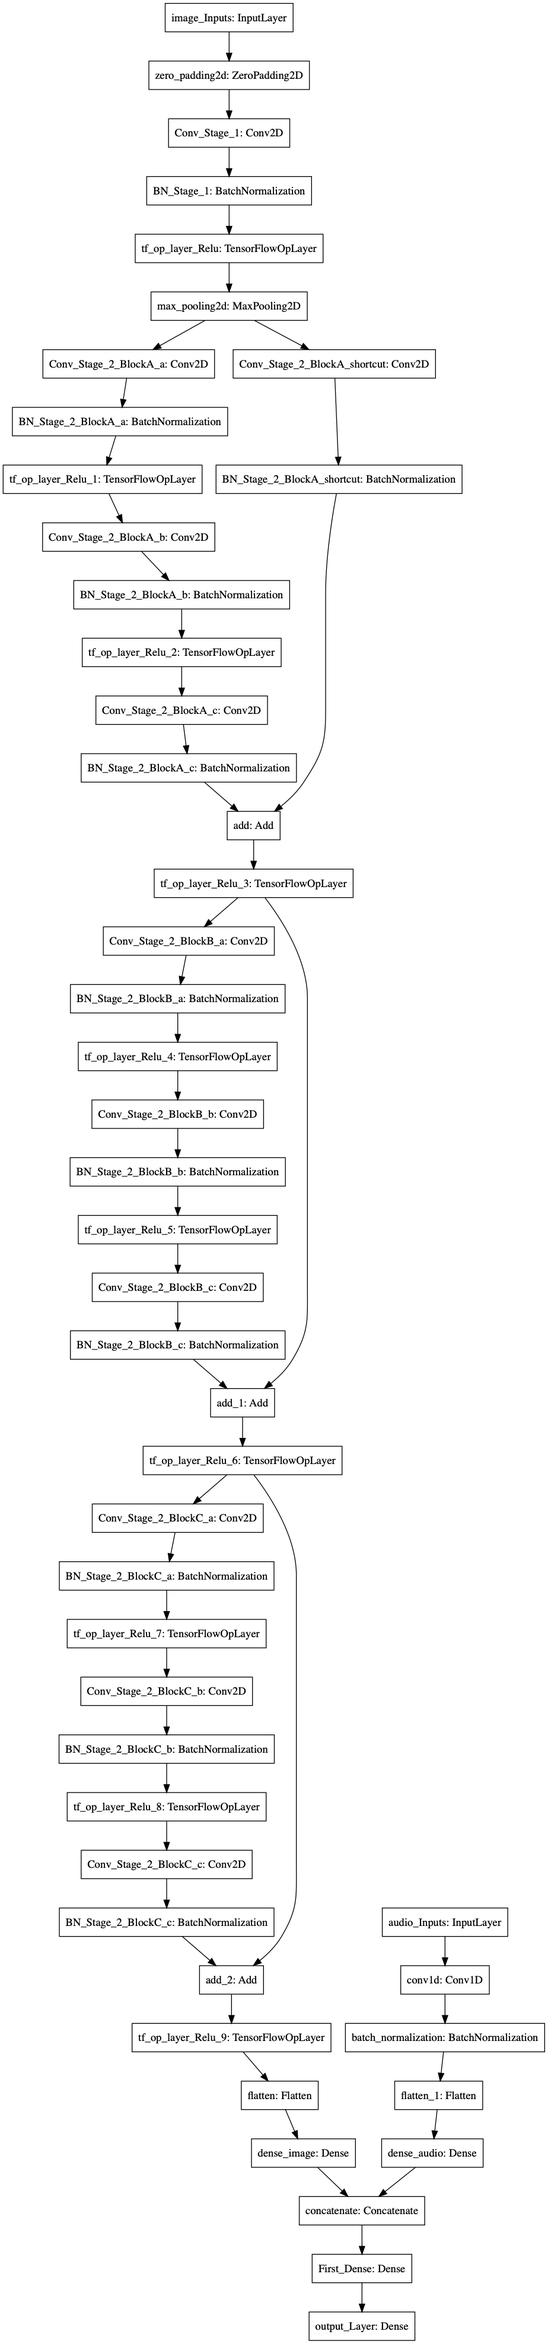
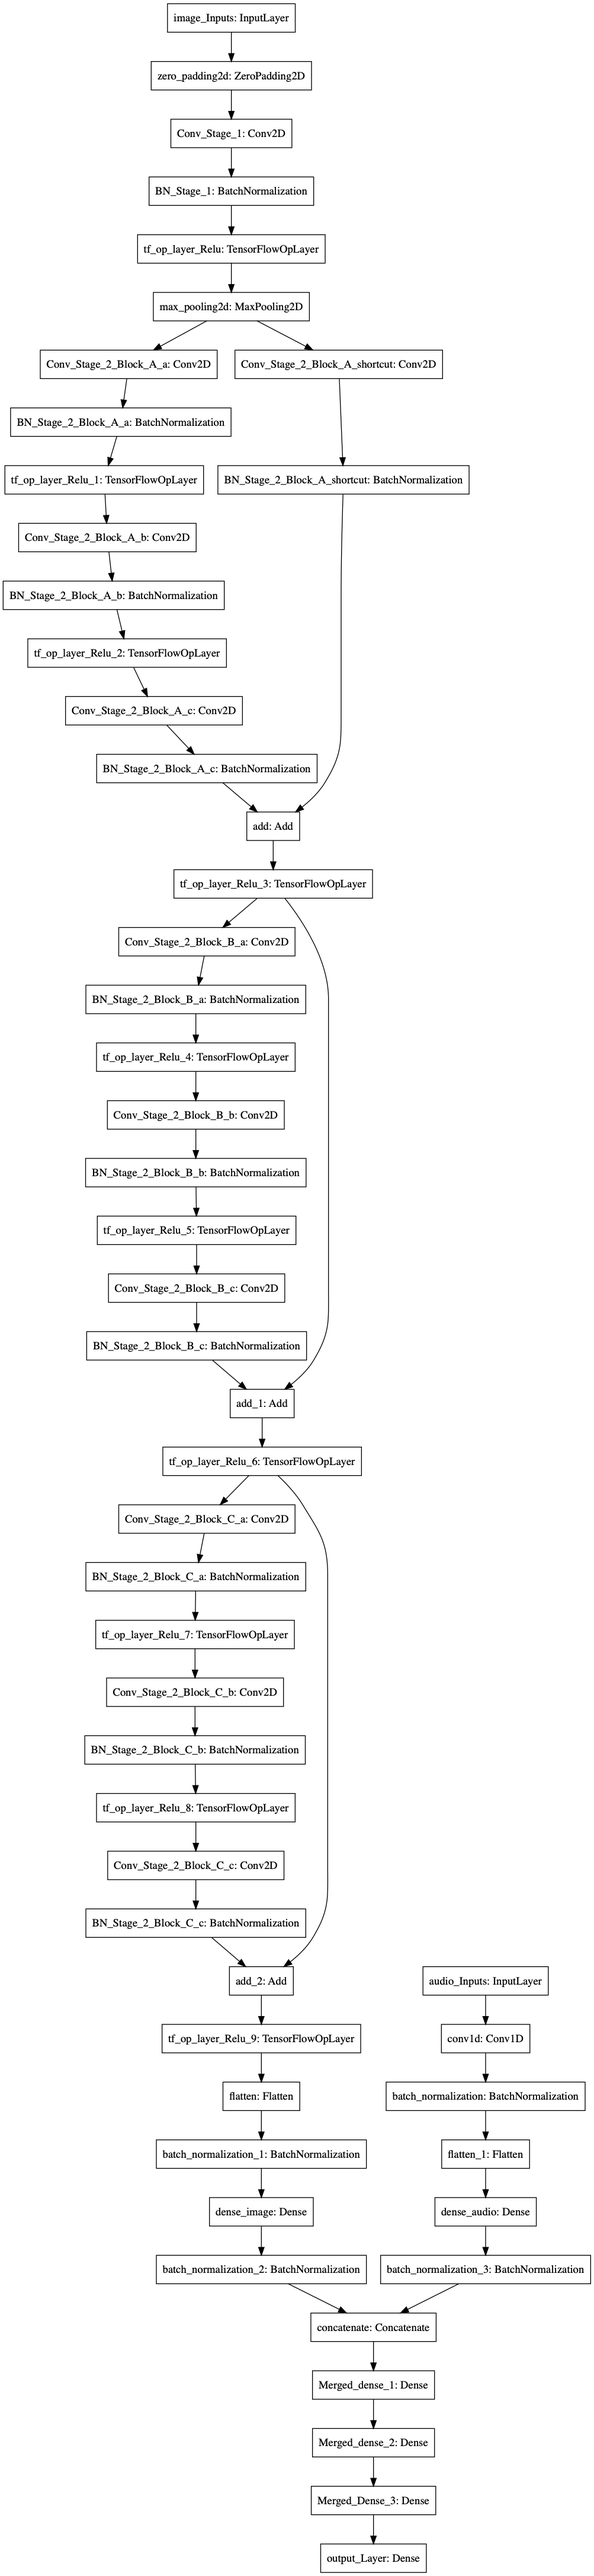
updated dense structures

Changed region(s): [[0.0, 0.0, 1.0, 1.0], [0.5455, 0.6223, 0.5758, 0.7157]]

diff --git a/multi-input.py b/multi-input.py
@@ -1,7 +1,7 @@
 import tensorflow as tf
 from tensorflow import keras 
-from tensorflow.keras import layers
-from tensorflow.keras.layers import MaxPooling2D, BatchNormalization
+from tensorflow.keras import layers, Input, Model
+from tensorflow.keras.layers import MaxPooling2D, BatchNormalization, Flatten, Dense, concatenate
 from ResNet import ResNet
 from segmented_data_builder import tf_Data_Builder
 from tqdm import tqdm
@@ -19,23 +19,16 @@ class Multi_Modal():
       filters = 32,
       kernel_size = 3,
       activation = 'relu')
-    dense_layer = layers.Dense(
-      units = 32, 
-      activation = 'relu',
-      name = 'dense_Audio')
     x = conv1D_layer(inputs)
     x = BatchNormalization()(x)
-    # x = dense_layer(inputs)
-    # x = BatchNormalization()(x)
-    # x = layers.Flatten()(x)
     return x
 
   def compile_multi_modal_network(self, model_summary = True, save_img = False):
     # define input shapes
-    image_inputs = keras.Input(
+    image_inputs = Input(
       shape=(32,32,1), 
       name = 'image_Inputs')
-    audio_inputs = keras.Input(
+    audio_inputs = Input(
       shape=(128,1), 
       name = 'audio_Inputs')
     
@@ -43,27 +36,31 @@ class Multi_Modal():
     resnet_model = ResNet(trim_front = True, trim_end = True, X_input = image_inputs)
     x_image = resnet_model.resnet()
 
-    # send audio to 1D conv layers
+    # send audio to 1D conv layers - future updates 
     x_audio = self.convAudioNet(audio_inputs)
 
     # flatten for dense layer
-    x_image = layers.Flatten()(x_image)
-    x_audio = layers.Flatten()(x_audio)
+    x_image = Flatten()(x_image)
+    x_audio = Flatten()(x_audio)
 
     # get image and audio to equal number of units 50/50
-    x_image = layers.Dense(units = 500, activation = 'relu', name = 'dense_image')(x_image)
-    x_audio = layers.Dense(units = 500, activation = 'relu', name = 'dense_audio')(x_audio)
+    x_image = BatchNormalization()(x_image)
+    x_image = Dense(units = 1000, activation = 'relu', name = 'dense_image')(x_image)
+    x_audio = Dense(units = 1000, activation = 'relu', name = 'dense_audio')(x_audio)
+    x_image = BatchNormalization()(x_image)
+    x_audio = BatchNormalization()(x_audio)
 
-    x = layers.concatenate([x_image, x_audio])
-    x = layers.Dense(100, activation='relu', name='First_Dense')(x)
+    # concatenate inputs 
+    x = concatenate([x_image, x_audio])
+    x = Dense(units = x.shape[1], activation = 'relu', name = 'Merged_dense_1')(x)
+    x = Dense(units = 1000, activation = 'relu', name = 'Merged_dense_2')(x)
+    x = Dense(100, activation='relu', name='Merged_Dense_3')(x)
     
-    output_layer = layers.Dense(
-      units = 5, 
-      activation='sigmoid', 
+    output_layer = Dense(units = 5, activation='sigmoid', 
       name = 'output_Layer')
     outputs = output_layer(x)
 
-    self.model = keras.Model(
+    self.model = Model(
       inputs=[image_inputs, audio_inputs], 
       outputs=outputs)
     if model_summary:
@@ -72,10 +69,11 @@ class Multi_Modal():
       keras.utils.plot_model(self.model, 'multi_model.png')
     # return model
 
-  def train_model(self, epochs):
+
+  def train_model(self, epochs, learning_rate = 0.0005):
     # model = self.multi_modal_network(True)
     print('\nTraining Model')
-    optimizer = tf.keras.optimizers.Adam(lr=0.0005)
+    optimizer = tf.keras.optimizers.Adam(learning_rate)
     loss_function = tf.keras.losses.BinaryCrossentropy(from_logits=True)
     loss_history = []
     for epoch in range(epochs):
@@ -97,6 +95,7 @@ class Multi_Modal():
       avg_loss_on_epoch = np.mean(epoch_loss)
       print('Epoch {} avg. loss = {}'.format(epoch+1,float(avg_loss_on_epoch)))
       print('Epoch {} final batch loss = {}'.format(epoch+1,float(loss)))
+
 
   def predict_model(self):
     print('\nPredicting Model')
@@ -158,8 +157,9 @@ if __name__ == '__main__':
   # Create multi-modal object
   model_object = Multi_Modal(data_builder)
   model_object.compile_multi_modal_network(True, True)
-  model_object.train_model(1)
+  model_object.train_model(epochs = 5, learning_rate = 0.0001)
   model_object.predict_model()
+  print(model_object.predictions)
   model_object.get_model_metrics()
 
 

diff --git a/ResNet.py b/ResNet.py
@@ -45,8 +45,8 @@ class ResNet():
     X_shortcut = X
     F1, F2, F3 = filters
     ks = (kernel_size, kernel_size)
-    conv_name = 'Conv_Stage_' + str(stage) + '_Block' + str(block)
-    BN_name = 'BN_Stage_' + str(stage) + '_Block' + str(block)
+    conv_name = 'Conv_Stage_' + str(stage) + '_Block_' + str(block)
+    BN_name = 'BN_Stage_' + str(stage) + '_Block_' + str(block)
 
     # first block
     X = Conv2D(filters = F1, kernel_size = (1,1), strides = (1,1), padding = 'valid', 
@@ -79,8 +79,8 @@ class ResNet():
     X_shortcut = X
     F1, F2, F3 = filters
     ks = (kernel_size, kernel_size)
-    conv_name = 'Conv_Stage_' + str(stage) + '_Block' + str(block)
-    BN_name = 'BN_Stage_' + str(stage) + '_Block' + str(block)
+    conv_name = 'Conv_Stage_' + str(stage) + '_Block_' + str(block)
+    BN_name = 'BN_Stage_' + str(stage) + '_Block_' + str(block)
     s = stride
 
     # first block
